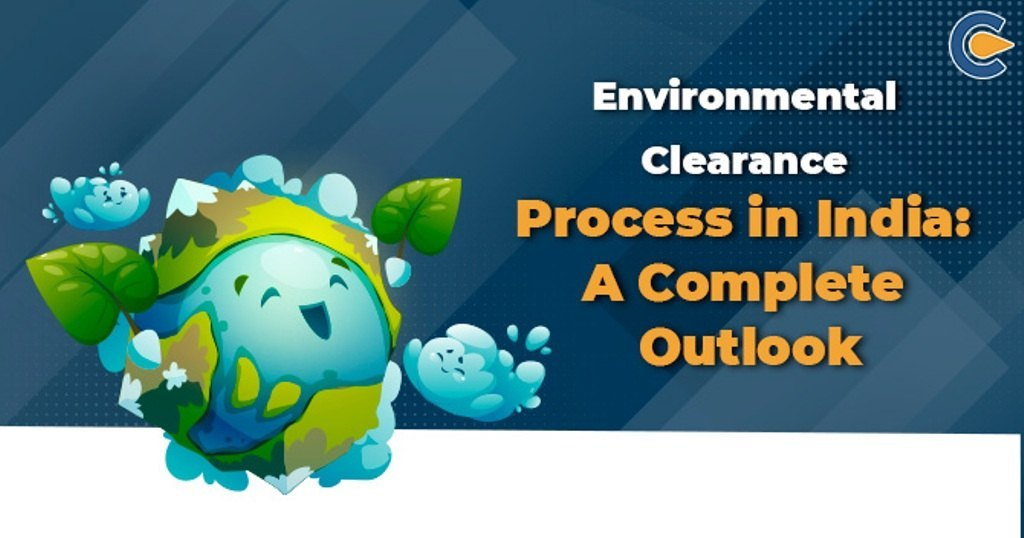
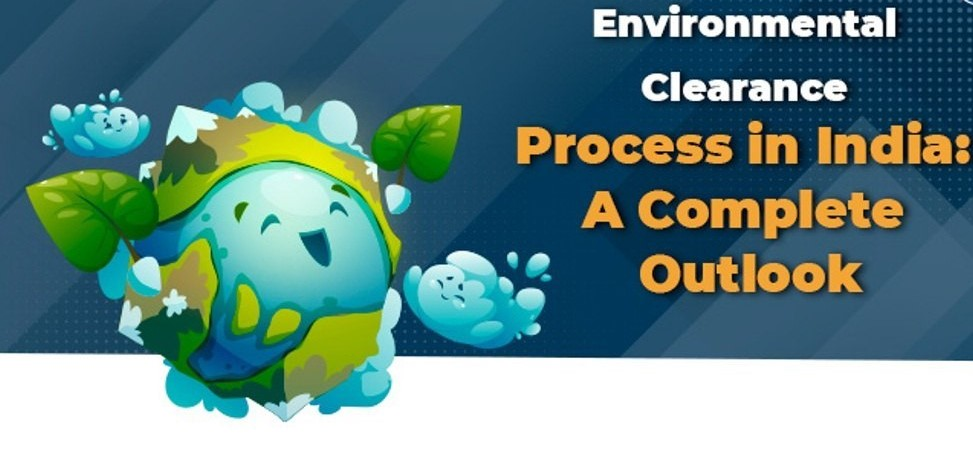
Images changes done

diff --git a/envclearance.html b/envclearance.html
@@ -465,15 +465,15 @@
         <body>
             <div class="banner">
                 <div class="banner-images">
-                    <img src="images/vindus_clients_images/What_is_Environmental_Clearance.jpg" alt="Banner Image 4">
-                    <img src="images/vindus_clients_images/Environmental-Clearance-Perfect-Pollucon-Services.jpg" alt="Banner Image 1">
-                    <img src="images/vindus_clients_images/environmental-clearance-service.jpg" alt="Banner Image 2">
+                    <img src="images/vindus_clients_images/env-clearance.png" alt="Banner Image 4">
+                    <img src="images/vindus_clients_images/Environmental-Clearance-Perfect-Pollucon-Services.png" alt="Banner Image 1">
+                    <img src="images/vindus_clients_images/environmental-clearance-service.png" alt="Banner Image 2">
                     <img src="images/vindus_clients_images/environmental-clearance-services.jpg" alt="Banner Image 5">
                     <img src="images/vindus_clients_images/Environmental-Clearance-Process-in-India.png" alt="Banner Image 3">
                     <!-- Duplicate set of images for continuous scroll -->
-                    <img src="images/vindus_clients_images/What_is_Environmental_Clearance.jpg" alt="Banner Image 4">
-                    <img src="images/vindus_clients_images/Environmental-Clearance-Perfect-Pollucon-Services.jpg" alt="Banner Image 1">
-                    <img src="images/vindus_clients_images/environmental-clearance-service.jpg" alt="Banner Image 2">
+                    <img src="images/vindus_clients_images/env-clearance.png" alt="Banner Image 4">
+                    <img src="images/vindus_clients_images/Environmental-Clearance-Perfect-Pollucon-Services.png" alt="Banner Image 1">
+                    <img src="images/vindus_clients_images/environmental-clearance-service.png" alt="Banner Image 2">
                     <img src="images/vindus_clients_images/environmental-clearance-services.jpg" alt="Banner Image 5">
                     <img src="images/vindus_clients_images/Environmental-Clearance-Process-in-India.png" alt="Banner Image 3">
                 </div>

diff --git a/enviauditing.html b/enviauditing.html
@@ -465,11 +465,11 @@
             <div class="banner">
                 <div class="banner-images">
                     <img src="images/vindus_clients_images/Environmental-Audit.jpg" alt="Banner Image 2">
-                    <img src="images/vindus_clients_images/5-Step-Environmental-Audit-Process-1.png" alt="Banner Image 1">
+                    <img src="images/vindus_clients_images/EnvAuditProcess.png" alt="Banner Image 1">
                     <img src="images/vindus_clients_images/hq720.jpg" alt="Banner Image 3">
                      <!-- Duplicate set of images for continuous scroll -->
                      <img src="images/vindus_clients_images/Environmental-Audit.jpg" alt="Banner Image 2">
-                    <img src="images/vindus_clients_images/5-Step-Environmental-Audit-Process-1.png" alt="Banner Image 1">
+                    <img src="images/vindus_clients_images/EnvAuditProcess.png" alt="Banner Image 1">
                     <img src="images/vindus_clients_images/hq720.jpg" alt="Banner Image 3">
                 </div>
                 <h1 class="banner-heading">Environmental Auditing</h1>

diff --git a/emp.html b/emp.html
@@ -467,11 +467,11 @@
                 <div class="banner-images">
                     <img src="images/vindus_clients_images/EmP.jpg" alt="Banner Image 1">
                     <img src="images/vindus_clients_images/1639822592705.jpg" alt="Banner Image 2">
-                    <img src="images/vindus_clients_images/9515046.pr.jpg" alt="Banner Image 3">
+                    <img src="images/vindus_clients_images/env-management.png" alt="Banner Image 3">
                     <!-- Duplicate set of images for continuous scroll -->
                     <img src="images/vindus_clients_images/EmP.jpg" alt="Banner Image 1">
                     <img src="images/vindus_clients_images/1639822592705.jpg" alt="Banner Image 2">
-                    <img src="images/vindus_clients_images/9515046.pr.jpg" alt="Banner Image 3">
+                    <img src="images/vindus_clients_images/env-management.png" alt="Banner Image 3">
                 </div>
                 <h1 class="banner-heading">Environment Management Plan (EMP)</h1>
             </div>

diff --git a/cfo.html b/cfo.html
@@ -444,7 +444,7 @@
         <body>
             <div class="banner">
                 <div class="banner-images">
-                    <img src="images/vindus_clients_images/Consent-for-Operation.jpg" alt="Banner Image 1">
+                    <img src="images/vindus_clients_images/Consent-for-Operation.png" alt="Banner Image 1">
                 </div>
                 <h1 class="banner-heading">Consent for Operation (CFO)</h1>
             </div>
